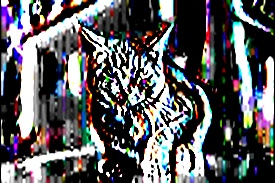
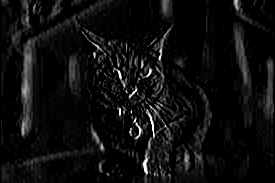
delete detection

diff --git a/app/static/js/main.js b/app/static/js/main.js
@@ -15,18 +15,18 @@ function process(blob, fname, isDrop) {
   upload.addEventListener("input", function () {
     original.classList.add("tab-active");
     hsv.classList.remove("tab-active");
-    detection.classList.remove("tab-active");
     thresholding.classList.remove("tab-active");
     gray.classList.remove("tab-active");
     sobelX.classList.remove("tab-active");
     sobelY.classList.remove("tab-active");
+    sobelXY.classList.remove("tab-active");
     laplace.classList.remove("tab-active");
     new_hsv.classList.remove("tab-active");
-    new_detection.classList.remove("tab-active");
     new_gray.classList.remove("tab-active");
     new_thresholding.classList.remove("tab-active");
     new_sobelX.classList.remove("tab-active");
     new_sobelY.classList.remove("tab-active");
+    new_sobelXY.classList.remove("tab-active");
     new_laplace.classList.remove("tab-active");
   });
   result.style.display = "block";
@@ -42,10 +42,10 @@ function process(blob, fname, isDrop) {
   const original = document.getElementById("original");
   const gray = document.getElementById("gray");
   const hsv = document.getElementById("hsv");
-  const detection = document.getElementById("detection");
   const thresholding = document.getElementById("thresholding");
   const sobelX = document.getElementById("sobel-x");
   const sobelY = document.getElementById("sobel-y");
+  const sobelXY = document.getElementById("sobel-xy");
   const laplace = document.getElementById("laplace");
 
   var $ = jQuery;
@@ -55,11 +55,11 @@ function process(blob, fname, isDrop) {
   original.addEventListener("click", function (event) {
     original.classList.add("tab-active");
     new_hsv.classList.remove("tab-active");
-    new_detection.classList.remove("tab-active");
     new_gray.classList.remove("tab-active");
     new_thresholding.classList.remove("tab-active");
     new_sobelX.classList.remove("tab-active");
     new_sobelY.classList.remove("tab-active");
+    new_sobelXY.classList.remove("tab-active");
     new_laplace.classList.remove("tab-active");
     image.src = srcBlobImg;
     event.preventDefault();
@@ -72,11 +72,11 @@ function process(blob, fname, isDrop) {
   new_gray.addEventListener("click", function () {
     new_gray.classList.add("tab-active");
     new_hsv.classList.remove("tab-active");
-    new_detection.classList.remove("tab-active");
     original.classList.remove("tab-active");
     new_thresholding.classList.remove("tab-active");
     new_sobelX.classList.remove("tab-active");
     new_sobelY.classList.remove("tab-active");
+    new_sobelXY.classList.remove("tab-active");
     new_laplace.classList.remove("tab-active");
     const data = new FormData();
     data.append("file", blob, fname);
@@ -100,44 +100,16 @@ function process(blob, fname, isDrop) {
   new_hsv.addEventListener("click", function (event) {
     new_hsv.classList.add("tab-active");
     new_gray.classList.remove("tab-active");
-    new_detection.classList.remove("tab-active");
     original.classList.remove("tab-active");
     new_thresholding.classList.remove("tab-active");
     new_sobelX.classList.remove("tab-active");
     new_sobelY.classList.remove("tab-active");
+    new_sobelXY.classList.remove("tab-active");
     new_laplace.classList.remove("tab-active");
     const data = new FormData();
     data.append("file", blob, fname);
     $.ajax({
       url: "/hsv",
-      type: "POST",
-      processData: false,
-      contentType: false,
-      data: data,
-      success: (ret) => {
-        var srcNewImg = ret.data;
-        $("#showUploadImage").attr("src", srcNewImg);
-      },
-    });
-  });
-  // =================================================================================================================
-  // Rgb Detected
-  // =================================================================================================================
-  const new_detection = detection.cloneNode(true);
-  detection.parentNode.replaceChild(new_detection, detection);
-  new_detection.addEventListener("click", function (event) {
-    new_detection.classList.add("tab-active");
-    new_hsv.classList.remove("tab-active");
-    new_gray.classList.remove("tab-active");
-    original.classList.remove("tab-active");
-    new_thresholding.classList.remove("tab-active");
-    new_sobelX.classList.remove("tab-active");
-    new_sobelY.classList.remove("tab-active");
-    new_laplace.classList.remove("tab-active");
-    const data = new FormData();
-    data.append("file", blob, fname);
-    $.ajax({
-      url: "/detection",
       type: "POST",
       processData: false,
       contentType: false,
@@ -158,10 +130,10 @@ function process(blob, fname, isDrop) {
     new_thresholding.classList.add("tab-active");
     new_hsv.classList.remove("tab-active");
     new_gray.classList.remove("tab-active");
-    new_detection.classList.remove("tab-active");
     original.classList.remove("tab-active");
     new_sobelX.classList.remove("tab-active");
     new_sobelY.classList.remove("tab-active");
+    new_sobelXY.classList.remove("tab-active");
     new_laplace.classList.remove("tab-active");
     const data = new FormData();
     data.append("file", blob, fname);
@@ -187,10 +159,10 @@ function process(blob, fname, isDrop) {
     new_sobelX.classList.add("tab-active");
     new_hsv.classList.remove("tab-active");
     new_gray.classList.remove("tab-active");
-    new_detection.classList.remove("tab-active");
     original.classList.remove("tab-active");
     new_thresholding.classList.remove("tab-active");
     new_sobelY.classList.remove("tab-active");
+    new_sobelXY.classList.remove("tab-active");
     new_laplace.classList.remove("tab-active");
     const data = new FormData();
     data.append("file", blob, fname);
@@ -216,15 +188,44 @@ function process(blob, fname, isDrop) {
     new_sobelY.classList.add("tab-active");
     new_hsv.classList.remove("tab-active");
     new_gray.classList.remove("tab-active");
-    new_detection.classList.remove("tab-active");
     original.classList.remove("tab-active");
     new_thresholding.classList.remove("tab-active");
     new_sobelX.classList.remove("tab-active");
+    new_sobelXY.classList.remove("tab-active");
     new_laplace.classList.remove("tab-active");
     const data = new FormData();
     data.append("file", blob, fname);
     $.ajax({
       url: "/sobelY",
+      type: "POST",
+      processData: false,
+      contentType: false,
+      data: data,
+      success: (ret) => {
+        var srcNewImg = ret.data;
+        $("#showUploadImage").attr("src", srcNewImg);
+      },
+    });
+  });
+
+  // =================================================================================================================
+  // Sobel XY
+  // =================================================================================================================
+  const new_sobelXY = sobelXY.cloneNode(true);
+  sobelXY.parentNode.replaceChild(new_sobelXY, sobelXY);
+  new_sobelXY.addEventListener("click", function (event) {
+    new_sobelXY.classList.add("tab-active");
+    new_hsv.classList.remove("tab-active");
+    new_gray.classList.remove("tab-active");
+    original.classList.remove("tab-active");
+    new_thresholding.classList.remove("tab-active");
+    new_sobelX.classList.remove("tab-active");
+    new_sobelY.classList.remove("tab-active");
+    new_laplace.classList.remove("tab-active");
+    const data = new FormData();
+    data.append("file", blob, fname);
+    $.ajax({
+      url: "/sobelXY",
       type: "POST",
       processData: false,
       contentType: false,
@@ -245,11 +246,11 @@ function process(blob, fname, isDrop) {
     new_laplace.classList.add("tab-active");
     new_hsv.classList.remove("tab-active");
     new_gray.classList.remove("tab-active");
-    new_detection.classList.remove("tab-active");
     original.classList.remove("tab-active");
     new_thresholding.classList.remove("tab-active");
     new_sobelX.classList.remove("tab-active");
     new_sobelY.classList.remove("tab-active");
+    new_sobelXY.classList.remove("tab-active");
     const data = new FormData();
     data.append("file", blob, fname);
     $.ajax({
@@ -268,17 +269,17 @@ function process(blob, fname, isDrop) {
   if (isDrop) {
     original.classList.add("tab-active");
     hsv.classList.remove("tab-active");
-    detection.classList.remove("tab-active");
     gray.classList.remove("tab-active");
     thresholding.classList.remove("tab-active");
     sobelX.classList.remove("tab-active");
     sobelY.classList.remove("tab-active");
+    sobelXY.classList.remove("tab-active");
     new_hsv.classList.remove("tab-active");
-    new_detection.classList.remove("tab-active");
     new_gray.classList.remove("tab-active");
     new_thresholding.classList.remove("tab-active");
     new_sobelX.classList.remove("tab-active");
     new_sobelY.classList.remove("tab-active");
+    new_sobelXY.classList.remove("tab-active");
     new_laplace.classList.remove("tab-active");
     laplace.classList.remove("tab-active");
   }

diff --git a/app/templates/index.html b/app/templates/index.html
@@ -58,11 +58,11 @@
         <li id="sobel-y">
           <a> Sobel Y</a>
         </li>
+         <li id="sobel-xy">
+          <a> Sobel XY</a>
+        </li>
         <li id="laplace">
           <a> Laplace </a>
-        </li>
-        <li id="detection">
-          <a> Detection </a>
         </li>
       </ul>
       <div class="image">

diff --git a/app/routes.py b/app/routes.py
@@ -12,29 +12,6 @@ def allowed_file(filename):
     return '.' in filename and filename.rsplit('.', 1)[1].lower() in ALLOWED_EXTENSIONS
 
 
-def face_detect(input_path, file_name):
-    # Processing img uploaded
-    img = cv.imread(input_path)         # Read image
-    if img is None:
-        print("Không tìm thấy file ảnh")
-
-    # Processing img
-    face_cascade = cv.CascadeClassifier(cv.data.haarcascades + 'haarcascade_frontalcatface_extended.xml')
-    imgGray = cv.cvtColor(img, cv.COLOR_BGR2GRAY)
-    faces = face_cascade.detectMultiScale(imgGray)
-    for (x, y, w, h) in faces:
-        img = cv.rectangle(img, (x, y), (x + w, y + h), (255, 0, 0), 5)
-
-    # Create link img render
-    fname = file_name.split(".")[0]
-    output_path = "./app/static/img_Render/" + fname + "_FaceDetected.jpg"
-    cv.imwrite(output_path, img)
-    send_path = "../static/img_Render/" + fname + "_FaceDetected.jpg"
-
-    cv.destroyAllWindows()
-    return send_path
-
-
 def rgb_to_gray(input_path, file_name):
     # Processing img uploaded
     img = cv.imread(input_path)         # Read image
@@ -61,7 +38,7 @@ def rgb_to_hsv(input_path, file_name):
         print("Không tìm thấy file ảnh")
 
     # Processing img
-    img = cv.cvtColor(img, cv.COLOR_RGB2HSV)
+    img = cv.cvtColor(img, cv.COLOR_BGR2HSV)
 
     # Create link img render
     fname = file_name.split(".")[0]
@@ -81,7 +58,7 @@ def thresholding_binary(input_path, file_name):
 
     # Processing img
     img = cv.cvtColor(img, cv.COLOR_BGR2GRAY)
-    ret, img = cv.threshold(img, 127, 255, cv.THRESH_BINARY)
+    ret, img = cv.threshold(img, thresh=127, maxval=255, type=cv.THRESH_BINARY)
 
     # Create link img render
     fname = file_name.split(".")[0]
@@ -94,13 +71,13 @@ def thresholding_binary(input_path, file_name):
 
 
 def edge_detect_sobel_x(input_path, file_name):
-    # Processing img uploaded
     img = cv.imread(input_path)  # Read image
     if img is None:
         print("Không tìm thấy file ảnh")
 
     # Processing img
-    img = cv.Sobel(img, cv.CV_64F, 1, 0, ksize=5)
+    img = cv.cvtColor(img, cv.COLOR_BGR2GRAY)
+    img = cv.Sobel(img, ddepth=-1, dx=1, dy=0, ksize=3)
 
     # Create link img render
     fname = file_name.split(".")[0]
@@ -119,13 +96,35 @@ def edge_detect_sobel_y(input_path, file_name):
         print("Không tìm thấy file ảnh")
 
     # Processing img
-    img = cv.Sobel(img, cv.CV_64F, 0, 1, ksize=5)
+    img = cv.cvtColor(img, cv.COLOR_BGR2GRAY)
+    img = cv.Sobel(img, ddepth=-1, dx=0, dy=1, ksize=3)
 
     # Create link img render
     fname = file_name.split(".")[0]
     output_path = "./app/static/img_Render/" + fname + "_Sobel_Y.jpg"
     cv.imwrite(output_path, img)
     send_path = "../static/img_Render/" + fname + "_Sobel_Y.jpg"
+
+    cv.destroyAllWindows()
+    return send_path
+
+
+def edge_detect_sobel_xy(input_path, file_name):
+    img = cv.imread(input_path)  # Read image
+    if img is None:
+        print("Không tìm thấy file ảnh")
+
+    # Processing img
+    img = cv.cvtColor(img, cv.COLOR_BGR2GRAY)
+    imgx = cv.Sobel(img, ddepth=-1, dx=1, dy=0, ksize=3)
+    imgy = cv.Sobel(img, ddepth=-1, dx=0, dy=1, ksize=3)
+    img = imgx + imgy
+
+    # Create link img render
+    fname = file_name.split(".")[0]
+    output_path = "./app/static/img_Render/" + fname + "_Sobel_XY.jpg"
+    cv.imwrite(output_path, img)
+    send_path = "../static/img_Render/" + fname + "_Sobel_XY.jpg"
 
     cv.destroyAllWindows()
     return send_path
@@ -138,7 +137,8 @@ def edge_detect_laplace(input_path, file_name):
         print("Không tìm thấy file ảnh")
 
     # Processing img
-    img = cv.Laplacian(img, cv.CV_64F)
+    img = cv.cvtColor(img, cv.COLOR_BGR2GRAY)
+    img = cv.Laplacian(img, ddepth=-1, ksize=1)
 
     # Create link img render
     fname = file_name.split(".")[0]
@@ -172,19 +172,6 @@ def hsv():
 
         file_path = "./app/static/img_Uploads/" + str(fileName)
         res = rgb_to_hsv(file_path, fileName)
-        res = str(res)
-        return jsonify(data=res)
-
-
-@app.route('/detection', methods=['POST'])
-def detection():
-    file = request.files['file']
-    if file and allowed_file(file.filename):
-        fileName = secure_filename(file.filename)
-        file.save(os.path.join(app.config['UPLOAD_FOLDER'], fileName))
-
-        file_path = "./app/static/img_Uploads/" + str(fileName)
-        res = face_detect(file_path, fileName)
         res = str(res)
         return jsonify(data=res)
 
@@ -224,6 +211,19 @@ def sobel_y():
 
         file_path = "./app/static/img_Uploads/" + str(fileName)
         res = edge_detect_sobel_y(file_path, fileName)
+        res = str(res)
+        return jsonify(data=res)
+
+
+@app.route('/sobelXY', methods=['POST'])
+def sobel_xy():
+    file = request.files['file']
+    if file and allowed_file(file.filename):
+        fileName = secure_filename(file.filename)
+        file.save(os.path.join(app.config['UPLOAD_FOLDER'], fileName))
+
+        file_path = "./app/static/img_Uploads/" + str(fileName)
+        res = edge_detect_sobel_xy(file_path, fileName)
         res = str(res)
         return jsonify(data=res)
 
